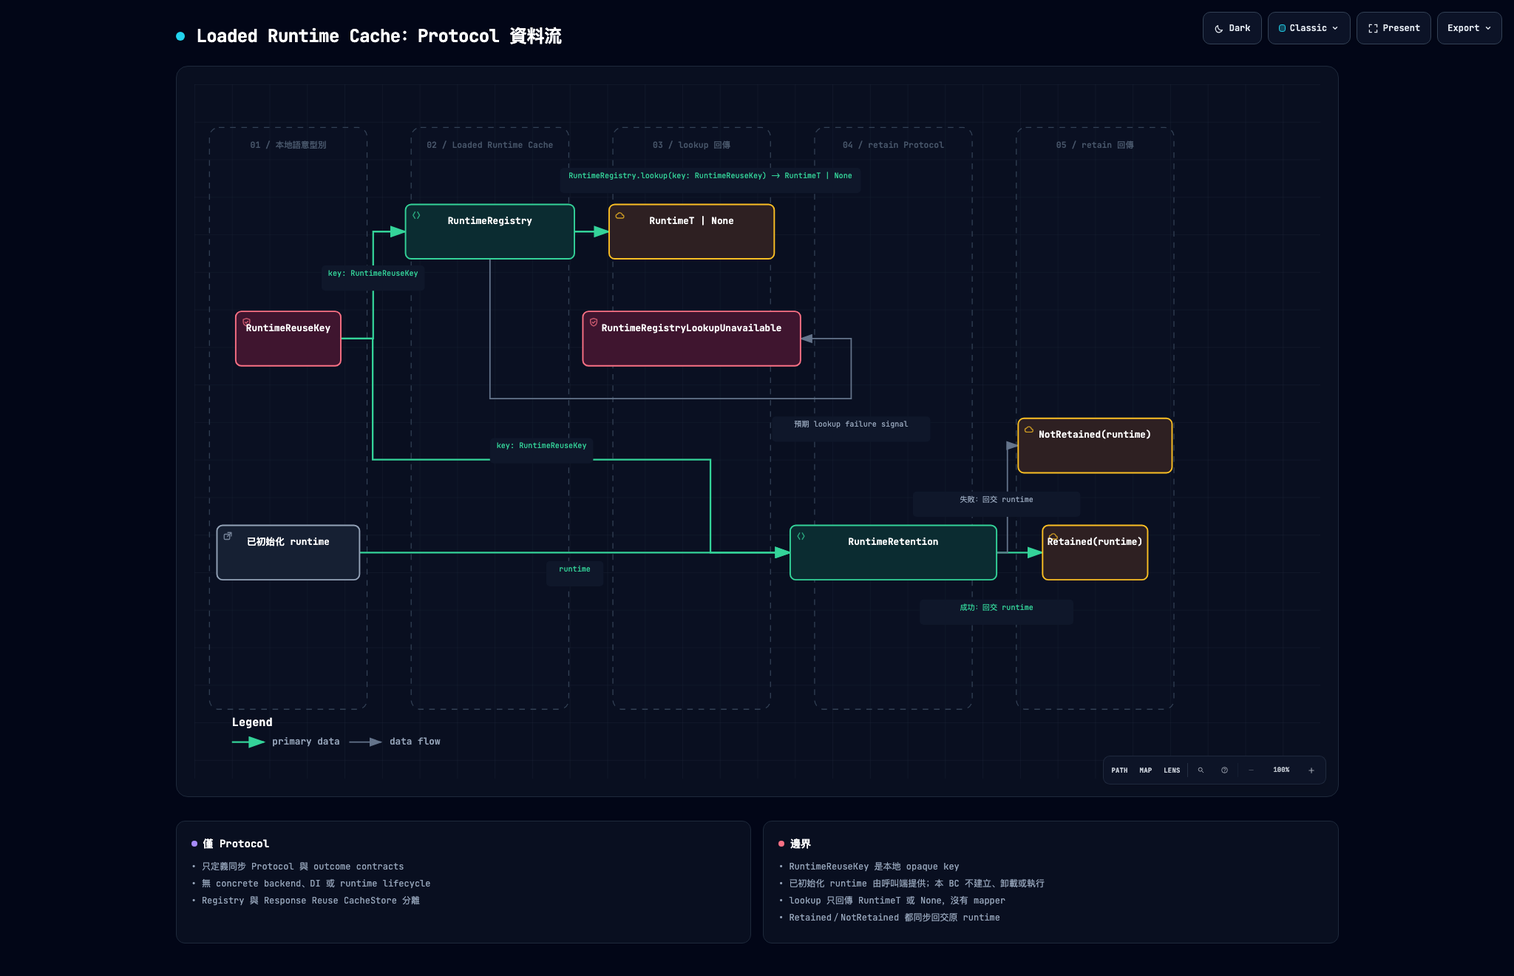
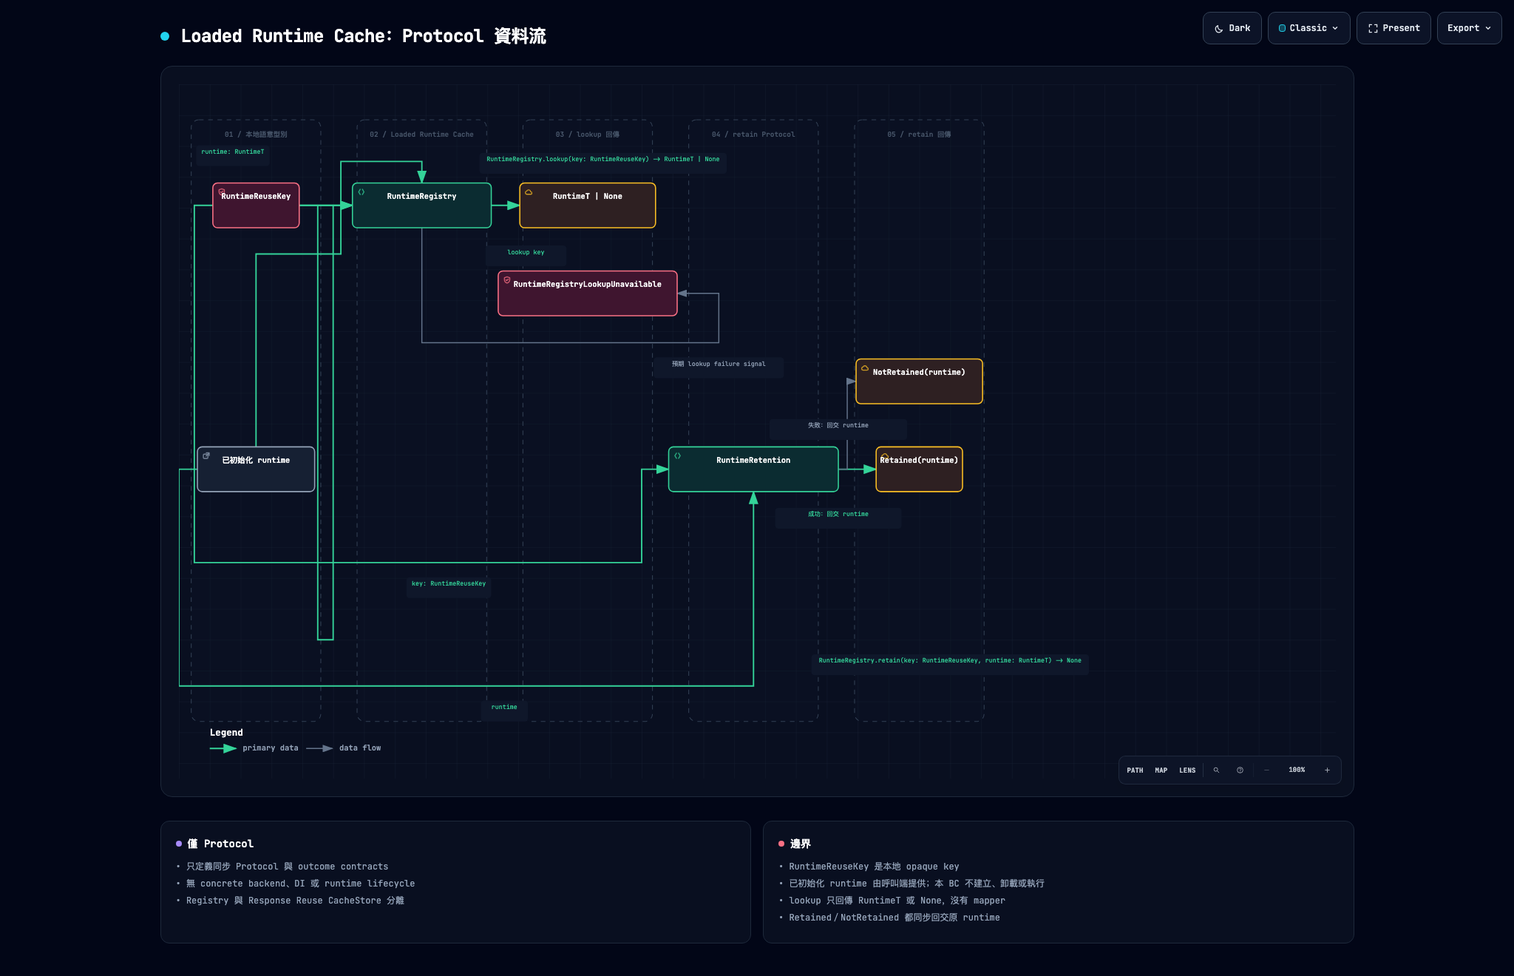
fix(loaded-runtime-cache): close C28 protocol regressions

diff --git a/docs/architecture/loaded-runtime-cache/loaded-runtime-cache.dataflow.html b/docs/architecture/loaded-runtime-cache/loaded-runtime-cache.dataflow.html
@@ -4997,7 +4997,7 @@
     <!-- Main Diagram -->
     <div class="diagram-container" data-detail-level="read"
          data-preset-badge-editorial-plate="ARCHIFY / PLATE 04">
-      <svg viewBox="0 0 1200 740" role="img" lang="en" aria-labelledby="archify-diagram-title archify-diagram-description" data-preset="classic" data-quality-profile="showcase">
+      <svg viewBox="0 0 1500 900" role="img" lang="en" aria-labelledby="archify-diagram-title archify-diagram-description" data-preset="classic" data-quality-profile="showcase">
         <title id="archify-diagram-title">Loaded Runtime Cache：Protocol 資料流</title>
         <desc id="archify-diagram-description">A data-flow diagram generated by Archify.</desc>
         <!-- Definitions -->
@@ -5023,41 +5023,43 @@
         <rect width="100%" height="100%" fill="url(#grid)" />
 
         <!-- Data Stages -->
-        <rect data-graph-role="structural-frame" data-composition-frame-kind="stage" data-composition-frame-id="0" x="16" y="46" width="168" height="620" rx="10" class="c-lane" stroke-width="1"/>
+        <rect data-graph-role="structural-frame" data-composition-frame-kind="stage" data-composition-frame-id="0" x="16" y="46" width="168" height="780" rx="10" class="c-lane" stroke-width="1"/>
         <text x="100" y="68" class="t-dim" font-size="9" font-weight="600" text-anchor="middle">01 / 本地語意型別</text>
 
-        <rect data-graph-role="structural-frame" data-composition-frame-kind="stage" data-composition-frame-id="1" x="231" y="46" width="168" height="620" rx="10" class="c-lane" stroke-width="1"/>
+        <rect data-graph-role="structural-frame" data-composition-frame-kind="stage" data-composition-frame-id="1" x="231" y="46" width="168" height="780" rx="10" class="c-lane" stroke-width="1"/>
         <text x="315" y="68" class="t-dim" font-size="9" font-weight="600" text-anchor="middle">02 / Loaded Runtime Cache</text>
 
-        <rect data-graph-role="structural-frame" data-composition-frame-kind="stage" data-composition-frame-id="2" x="446" y="46" width="168" height="620" rx="10" class="c-lane" stroke-width="1"/>
+        <rect data-graph-role="structural-frame" data-composition-frame-kind="stage" data-composition-frame-id="2" x="446" y="46" width="168" height="780" rx="10" class="c-lane" stroke-width="1"/>
         <text x="530" y="68" class="t-dim" font-size="9" font-weight="600" text-anchor="middle">03 / lookup 回傳</text>
 
-        <rect data-graph-role="structural-frame" data-composition-frame-kind="stage" data-composition-frame-id="3" x="661" y="46" width="168" height="620" rx="10" class="c-lane" stroke-width="1"/>
+        <rect data-graph-role="structural-frame" data-composition-frame-kind="stage" data-composition-frame-id="3" x="661" y="46" width="168" height="780" rx="10" class="c-lane" stroke-width="1"/>
         <text x="745" y="68" class="t-dim" font-size="9" font-weight="600" text-anchor="middle">04 / retain Protocol</text>
 
-        <rect data-graph-role="structural-frame" data-composition-frame-kind="stage" data-composition-frame-id="4" x="876" y="46" width="168" height="620" rx="10" class="c-lane" stroke-width="1"/>
+        <rect data-graph-role="structural-frame" data-composition-frame-kind="stage" data-composition-frame-id="4" x="876" y="46" width="168" height="780" rx="10" class="c-lane" stroke-width="1"/>
         <text x="960" y="68" class="t-dim" font-size="9" font-weight="600" text-anchor="middle">05 / retain 回傳</text>
 
         <!-- Flow paths -->
-        <path data-edge-from="reuse-key" data-edge-to="runtime-registry" data-edge-label="key: RuntimeReuseKey" data-edge-key="0" data-edge-id="key-to-registry" data-composition-points="156,271;190.5,271;190.5,157;225,157" d="M 156 271 L 190.5 271 L 190.5 157 L 225 157" class="a-emphasis" stroke-width="1.8" marker-end="url(#arrowhead-emphasis)"/>
-        <path data-edge-from="reuse-key" data-edge-to="runtime-retention" data-edge-label="key: RuntimeReuseKey" data-edge-key="1" data-edge-id="key-to-retention" data-composition-points="156,271;190,271;190,400;550,400;550,499;635,499" d="M 156 271 L 190 271 L 190 400 L 550 400 L 550 499 L 635 499" class="a-emphasis" stroke-width="1.8" marker-end="url(#arrowhead-emphasis)"/>
-        <path data-edge-from="initialized-runtime" data-edge-to="runtime-retention" data-edge-label="runtime" data-edge-key="2" data-edge-id="runtime-to-retention" data-composition-points="176,499;635,499" d="M 176 499 L 635 499" class="a-emphasis" stroke-width="1.8" marker-end="url(#arrowhead-emphasis)"/>
-        <path data-edge-from="runtime-registry" data-edge-to="lookup-return" data-edge-label="RuntimeRegistry.lookup(key: RuntimeReuseKey) -&gt; RuntimeT | None" data-edge-key="3" data-edge-id="lookup-return" data-composition-points="405,157;442,157" d="M 405 157 L 442 157" class="a-emphasis" stroke-width="1.8" marker-end="url(#arrowhead-emphasis)"/>
-        <path data-edge-from="runtime-registry" data-edge-to="lookup-unavailable" data-edge-label="預期 lookup failure signal" data-edge-key="4" data-edge-id="lookup-unavailable" data-composition-points="315,186;315,335;700,335;700,271;646,271" d="M 315 186 L 315 335 L 700 335 L 700 271 L 646 271" class="a-default" stroke-width="1.4" marker-end="url(#arrowhead)"/>
-        <path data-edge-from="runtime-retention" data-edge-to="retained" data-edge-label="成功：回交 runtime" data-edge-key="5" data-edge-id="retain-success" data-composition-points="855,499;904,499" d="M 855 499 L 904 499" class="a-emphasis" stroke-width="1.8" marker-end="url(#arrowhead-emphasis)"/>
-        <path data-edge-from="runtime-retention" data-edge-to="not-retained" data-edge-label="失敗：回交 runtime" data-edge-key="6" data-edge-id="retain-failure" data-composition-points="855,499;866.5,499;866.5,385;878,385" d="M 855 499 L 866.5 499 L 866.5 385 L 878 385" class="a-default" stroke-width="1.4" marker-end="url(#arrowhead)"/>
+        <path data-edge-from="reuse-key" data-edge-to="runtime-registry" data-edge-label="lookup key" data-edge-key="0" data-edge-id="key-to-registry" data-composition-points="156,157;225,157" d="M 156 157 L 225 157" class="a-emphasis" stroke-width="1.8" marker-end="url(#arrowhead-emphasis)"/>
+        <path data-edge-from="reuse-key" data-edge-to="runtime-registry" data-edge-label="RuntimeRegistry.retain(key: RuntimeReuseKey, runtime: RuntimeT) -&gt; None" data-edge-key="1" data-edge-id="key-to-registry-retain" data-composition-points="156,157;200,157;200,720;180,720;180,157;225,157" d="M 156 157 L 200 157 L 200 720 L 180 720 L 180 157 L 225 157" class="a-emphasis" stroke-width="1.8" marker-end="url(#arrowhead-emphasis)"/>
+        <path data-edge-from="initialized-runtime" data-edge-to="runtime-registry" data-edge-label="runtime: RuntimeT" data-edge-key="2" data-edge-id="runtime-to-registry-retain" data-composition-points="100,470;100,220;210,220;210,100;315,100;315,128" d="M 100 470 L 100 220 L 210 220 L 210 100 L 315 100 L 315 128" class="a-emphasis" stroke-width="1.8" marker-end="url(#arrowhead-emphasis)"/>
+        <path data-edge-from="reuse-key" data-edge-to="runtime-retention" data-edge-label="key: RuntimeReuseKey" data-edge-key="3" data-edge-id="key-to-retention" data-composition-points="44,157;20,157;20,620;600,620;600,499;635,499" d="M 44 157 L 20 157 L 20 620 L 600 620 L 600 499 L 635 499" class="a-emphasis" stroke-width="1.8" marker-end="url(#arrowhead-emphasis)"/>
+        <path data-edge-from="initialized-runtime" data-edge-to="runtime-retention" data-edge-label="runtime" data-edge-key="4" data-edge-id="runtime-to-retention" data-composition-points="24,499;0,499;0,780;745,780;745,528" d="M 24 499 L 0 499 L 0 780 L 745 780 L 745 528" class="a-emphasis" stroke-width="1.8" marker-end="url(#arrowhead-emphasis)"/>
+        <path data-edge-from="runtime-registry" data-edge-to="lookup-return" data-edge-label="RuntimeRegistry.lookup(key: RuntimeReuseKey) -&gt; RuntimeT | None" data-edge-key="5" data-edge-id="lookup-return" data-composition-points="405,157;442,157" d="M 405 157 L 442 157" class="a-emphasis" stroke-width="1.8" marker-end="url(#arrowhead-emphasis)"/>
+        <path data-edge-from="runtime-registry" data-edge-to="lookup-unavailable" data-edge-label="預期 lookup failure signal" data-edge-key="6" data-edge-id="lookup-unavailable" data-composition-points="315,186;315,335;700,335;700,271;646,271" d="M 315 186 L 315 335 L 700 335 L 700 271 L 646 271" class="a-default" stroke-width="1.4" marker-end="url(#arrowhead)"/>
+        <path data-edge-from="runtime-retention" data-edge-to="retained" data-edge-label="成功：回交 runtime" data-edge-key="7" data-edge-id="retain-success" data-composition-points="855,499;904,499" d="M 855 499 L 904 499" class="a-emphasis" stroke-width="1.8" marker-end="url(#arrowhead-emphasis)"/>
+        <path data-edge-from="runtime-retention" data-edge-to="not-retained" data-edge-label="失敗：回交 runtime" data-edge-key="8" data-edge-id="retain-failure" data-composition-points="855,499;866.5,499;866.5,385;878,385" d="M 855 499 L 866.5 499 L 866.5 385 L 878 385" class="a-default" stroke-width="1.4" marker-end="url(#arrowhead)"/>
 
         <!-- Nodes -->
         <g id="node-reuse-key" data-node-id="reuse-key" data-node-label="RuntimeReuseKey" tabindex="0" role="button" aria-label="Focus RuntimeReuseKey, 01 / 本地語意型別" aria-pressed="false" data-node-kind="security" data-node-tag="本地 opaque key" data-node-context="01 / 本地語意型別">
           <title>RuntimeReuseKey · 01 / 本地語意型別 · 本地 opaque key</title>
-          <rect x="44" y="242" width="112" height="58" rx="6" class="c-mask"/>
-          <rect x="44" y="242" width="112" height="58" rx="6" class="c-security" stroke-width="1.5"/>
-          <g aria-hidden="true" data-semantic-sigil="security" class="semantic-sigil s-security" transform="translate(50 248) scale(0.6875)">
+          <rect x="44" y="128" width="112" height="58" rx="6" class="c-mask"/>
+          <rect x="44" y="128" width="112" height="58" rx="6" class="c-security" stroke-width="1.5"/>
+          <g aria-hidden="true" data-semantic-sigil="security" class="semantic-sigil s-security" transform="translate(50 134) scale(0.6875)">
             <path d="M8 2.2 13 4v3.5c0 3.1-1.8 5.4-5 6.5-3.2-1.1-5-3.4-5-6.5V4Z"/>
             <path d="m5.8 8 1.5 1.5 3-3"/>
           </g>
-          <text data-node-label="" x="100" y="263" class="t-primary" font-size="10" font-weight="600" text-anchor="middle">RuntimeReuseKey</text>
-        <text data-detail="fine" x="100" y="289" class="t-security" font-size="7" text-anchor="middle">本地 opaque key</text>
+          <text data-node-label="" x="100" y="149" class="t-primary" font-size="10" font-weight="600" text-anchor="middle">RuntimeReuseKey</text>
+        <text data-detail="fine" x="100" y="175" class="t-security" font-size="7" text-anchor="middle">本地 opaque key</text>
         </g>
 
         <g id="node-initialized-runtime" data-node-id="initialized-runtime" data-node-label="已初始化 runtime" tabindex="0" role="button" aria-label="Focus 已初始化 runtime, 01 / 本地語意型別" aria-pressed="false" data-node-kind="external" data-node-tag="retain input" data-node-context="01 / 本地語意型別">
@@ -5139,37 +5141,47 @@
         </g>
 
         <!-- Flow labels -->
-        <g data-detail="context" data-edge-from="reuse-key" data-edge-to="runtime-registry" data-edge-label="key: RuntimeReuseKey" data-edge-key="0" data-edge-id="key-to-registry">
-          <rect x="135.5" y="193" width="110" height="27" rx="4" class="c-mask"/>
-          <text x="190.5" y="204" class="t-backend" font-size="8" text-anchor="middle">key: RuntimeReuseKey</text>
-        <text data-detail="fine" x="190.5" y="215" class="t-dim" font-size="7" text-anchor="middle">opaque pass-through</text>
+        <g data-detail="context" data-edge-from="reuse-key" data-edge-to="runtime-registry" data-edge-label="lookup key" data-edge-key="0" data-edge-id="key-to-registry">
+          <rect x="397.45" y="209" width="105.1" height="27" rx="4" class="c-mask"/>
+          <text x="450" y="220" class="t-backend" font-size="8" text-anchor="middle">lookup key</text>
+        <text data-detail="fine" x="450" y="231" class="t-dim" font-size="7" text-anchor="middle">opaque pass-through</text>
         </g>
-        <g data-detail="context" data-edge-from="reuse-key" data-edge-to="runtime-retention" data-edge-label="key: RuntimeReuseKey" data-edge-key="1" data-edge-id="key-to-retention">
-          <rect x="315" y="377" width="110" height="27" rx="4" class="c-mask"/>
-          <text x="370" y="388" class="t-backend" font-size="8" text-anchor="middle">key: RuntimeReuseKey</text>
-        <text data-detail="fine" x="370" y="399" class="t-dim" font-size="7" text-anchor="middle">opaque pass-through</text>
+        <g data-detail="context" data-edge-from="reuse-key" data-edge-to="runtime-registry" data-edge-label="RuntimeRegistry.retain(key: RuntimeReuseKey, runtime: RuntimeT) -&gt; None" data-edge-key="1" data-edge-id="key-to-registry-retain">
+          <rect x="820.05" y="739" width="359.9" height="27" rx="4" class="c-mask"/>
+          <text x="1000" y="750" class="t-backend" font-size="8" text-anchor="middle">RuntimeRegistry.retain(key: RuntimeReuseKey, runtime: RuntimeT) -&gt; None</text>
+        <text data-detail="fine" x="1000" y="761" class="t-dim" font-size="7" text-anchor="middle">同步 Protocol</text>
         </g>
-        <g data-detail="context" data-edge-from="initialized-runtime" data-edge-to="runtime-retention" data-edge-label="runtime" data-edge-key="2" data-edge-id="runtime-to-retention">
-          <rect x="375" y="508" width="61" height="27" rx="4" class="c-mask"/>
-          <text x="405.5" y="519" class="t-backend" font-size="8" text-anchor="middle">runtime</text>
-        <text data-detail="fine" x="405.5" y="530" class="t-dim" font-size="7" text-anchor="middle">呼叫端提供</text>
+        <g data-detail="context" data-edge-from="initialized-runtime" data-edge-to="runtime-registry" data-edge-label="runtime: RuntimeT" data-edge-key="2" data-edge-id="runtime-to-registry-retain">
+          <rect x="22.35" y="79" width="95.3" height="27" rx="4" class="c-mask"/>
+          <text x="70" y="90" class="t-backend" font-size="8" text-anchor="middle">runtime: RuntimeT</text>
+        <text data-detail="fine" x="70" y="101" class="t-dim" font-size="7" text-anchor="middle">呼叫端提供</text>
         </g>
-        <g data-detail="context" data-edge-from="runtime-registry" data-edge-to="lookup-return" data-edge-label="RuntimeRegistry.lookup(key: RuntimeReuseKey) -&gt; RuntimeT | None" data-edge-key="3" data-edge-id="lookup-return">
+        <g data-detail="context" data-edge-from="reuse-key" data-edge-to="runtime-retention" data-edge-label="key: RuntimeReuseKey" data-edge-key="3" data-edge-id="key-to-retention">
+          <rect x="295" y="639" width="110" height="27" rx="4" class="c-mask"/>
+          <text x="350" y="650" class="t-backend" font-size="8" text-anchor="middle">key: RuntimeReuseKey</text>
+        <text data-detail="fine" x="350" y="661" class="t-dim" font-size="7" text-anchor="middle">opaque pass-through</text>
+        </g>
+        <g data-detail="context" data-edge-from="initialized-runtime" data-edge-to="runtime-retention" data-edge-label="runtime" data-edge-key="4" data-edge-id="runtime-to-retention">
+          <rect x="391.5" y="799" width="61" height="27" rx="4" class="c-mask"/>
+          <text x="422" y="810" class="t-backend" font-size="8" text-anchor="middle">runtime</text>
+        <text data-detail="fine" x="422" y="821" class="t-dim" font-size="7" text-anchor="middle">呼叫端提供</text>
+        </g>
+        <g data-detail="context" data-edge-from="runtime-registry" data-edge-to="lookup-return" data-edge-label="RuntimeRegistry.lookup(key: RuntimeReuseKey) -&gt; RuntimeT | None" data-edge-key="5" data-edge-id="lookup-return">
           <rect x="389.65" y="89" width="320.7" height="27" rx="4" class="c-mask"/>
           <text x="550" y="100" class="t-backend" font-size="8" text-anchor="middle">RuntimeRegistry.lookup(key: RuntimeReuseKey) -&gt; RuntimeT | None</text>
         <text data-detail="fine" x="550" y="111" class="t-dim" font-size="7" text-anchor="middle">同步 Protocol</text>
         </g>
-        <g data-detail="context" data-edge-from="runtime-registry" data-edge-to="lookup-unavailable" data-edge-label="預期 lookup failure signal" data-edge-key="4" data-edge-id="lookup-unavailable">
+        <g data-detail="context" data-edge-from="runtime-registry" data-edge-to="lookup-unavailable" data-edge-label="預期 lookup failure signal" data-edge-key="6" data-edge-id="lookup-unavailable">
           <rect x="615.6" y="354" width="168.8" height="27" rx="4" class="c-mask"/>
           <text x="700" y="365" class="t-muted" font-size="8" text-anchor="middle">預期 lookup failure signal</text>
         <text data-detail="fine" x="700" y="376" class="t-dim" font-size="7" text-anchor="middle">RuntimeRegistryLookupUnavailable</text>
         </g>
-        <g data-detail="context" data-edge-from="runtime-retention" data-edge-to="retained" data-edge-label="成功：回交 runtime" data-edge-key="5" data-edge-id="retain-success">
+        <g data-detail="context" data-edge-from="runtime-retention" data-edge-to="retained" data-edge-label="成功：回交 runtime" data-edge-key="7" data-edge-id="retain-success">
           <rect x="773.05" y="549" width="163.9" height="27" rx="4" class="c-mask"/>
           <text x="855" y="560" class="t-backend" font-size="8" text-anchor="middle">成功：回交 runtime</text>
         <text data-detail="fine" x="855" y="571" class="t-dim" font-size="7" text-anchor="middle">Retained(runtime)；同一 runtime</text>
         </g>
-        <g data-detail="context" data-edge-from="runtime-retention" data-edge-to="not-retained" data-edge-label="失敗：回交 runtime" data-edge-key="6" data-edge-id="retain-failure">
+        <g data-detail="context" data-edge-from="runtime-retention" data-edge-to="not-retained" data-edge-label="失敗：回交 runtime" data-edge-key="8" data-edge-id="retain-failure">
           <rect x="765.7" y="434" width="178.6" height="27" rx="4" class="c-mask"/>
           <text x="855" y="445" class="t-muted" font-size="8" text-anchor="middle">失敗：回交 runtime</text>
         <text data-detail="fine" x="855" y="456" class="t-dim" font-size="7" text-anchor="middle">NotRetained(runtime)；同一 runtime</text>
@@ -5177,14 +5189,14 @@
 
         <!-- Legend -->
         <g data-legend="">
-          <text x="40" y="684" class="t-primary" font-size="12" font-weight="650">Legend</text>
-          <g data-legend-semantic-kind="emphasis" data-legend-x="40" data-legend-baseline="704" data-legend-width="103">
-            <path d="M 40 701 L 74 701" class="a-emphasis" stroke-width="1.8" marker-end="url(#arrowhead-emphasis)"/>
-            <text x="83" y="704" class="t-muted" font-size="10" font-weight="500">primary data</text>
+          <text x="40" y="844" class="t-primary" font-size="12" font-weight="650">Legend</text>
+          <g data-legend-semantic-kind="emphasis" data-legend-x="40" data-legend-baseline="864" data-legend-width="103">
+            <path d="M 40 861 L 74 861" class="a-emphasis" stroke-width="1.8" marker-end="url(#arrowhead-emphasis)"/>
+            <text x="83" y="864" class="t-muted" font-size="10" font-weight="500">primary data</text>
           </g>
-          <g data-legend-semantic-kind="default" data-legend-x="165" data-legend-baseline="704" data-legend-width="88">
-            <path d="M 165 701 L 199 701" class="a-default" stroke-width="1.4" marker-end="url(#arrowhead)"/>
-            <text x="208" y="704" class="t-muted" font-size="10" font-weight="500">data flow</text>
+          <g data-legend-semantic-kind="default" data-legend-x="165" data-legend-baseline="864" data-legend-width="88">
+            <path d="M 165 861 L 199 861" class="a-default" stroke-width="1.4" marker-end="url(#arrowhead)"/>
+            <text x="208" y="864" class="t-muted" font-size="10" font-weight="500">data flow</text>
           </g>
         </g>
       </svg>

diff --git a/tests/test_loaded_runtime_cache_bc_independence.py b/tests/test_loaded_runtime_cache_bc_independence.py
@@ -97,6 +97,9 @@ def _aliases_from_imports(tree: ast.AST) -> tuple[dict[str, str], dict[str, str]
             for alias in statement.names:
                 if alias.name in {"builtins", "importlib", "sys"}:
                     modules[alias.asname or alias.name] = alias.name
+                elif alias.name.startswith("importlib.") and alias.asname is None:
+                    # ``import importlib.util`` binds ``importlib`` at module scope.
+                    modules["importlib"] = "importlib"
         elif isinstance(statement, ast.ImportFrom) and statement.module in {
             "builtins",
             "importlib",
@@ -160,6 +163,12 @@ def _resolve_forbidden_alias(
         return _resolve_name_alias(value.id, modules, callables)
     if isinstance(value, ast.Attribute):
         return _resolve_attribute_alias(value, modules)
+    if isinstance(value, ast.IfExp):
+        return _resolve_forbidden_alias(value.body, modules, callables) or _resolve_forbidden_alias(
+            value.orelse,
+            modules,
+            callables,
+        )
     if isinstance(value, ast.Call):
         return _resolve_getattr_alias(value, modules)
     return None
@@ -227,6 +236,13 @@ def _qualified_module_attribute(value: ast.Attribute, modules: dict[str, str]) -
     if isinstance(value.value, ast.Name):
         module = modules.get(value.value.id)
         return f"{module}.{value.attr}" if module is not None else None
+    if isinstance(value.value, ast.NamedExpr):
+        named_expression = value.value
+        resolved = _resolve_forbidden_alias(named_expression.value, modules, {})
+        if type(named_expression.target) is ast.Name and resolved is not None:
+            kind, module = resolved
+            if kind == "module":
+                return f"{module}.{value.attr}"
     if not isinstance(value.value, ast.Attribute):
         return None
     parent = _qualified_module_attribute(value.value, modules)
@@ -250,12 +266,12 @@ def _is_forbidden_import_callable_expression(
     callables: dict[str, str],
 ) -> bool:
     """Return whether a callable expression can reach forbidden import machinery."""
-    if isinstance(expression, ast.IfExp):
-        return _is_forbidden_import_callable_expression(
-            expression.body,
-            modules,
-            callables,
-        ) or _is_forbidden_import_callable_expression(expression.orelse, modules, callables)
+    resolved = _resolve_forbidden_alias(expression, modules, callables)
+    if resolved in {
+        ("callable", "builtins.__import__"),
+        ("callable", "importlib.import_module"),
+    }:
+        return True
     if isinstance(expression, ast.NamedExpr):
         resolved = _resolve_forbidden_alias(expression.value, modules, callables)
         return resolved in {
@@ -290,6 +306,13 @@ def _is_module_cache_access(
     callables: dict[str, str],
 ) -> bool:
     """Return whether an expression reaches ``sys.modules``, including aliases."""
+    resolved = (
+        _resolve_forbidden_alias(statement, modules, callables)
+        if isinstance(statement, ast.expr)
+        else None
+    )
+    if resolved is not None and resolved[1] == "sys.modules":
+        return True
     if isinstance(statement, ast.Name):
         target = callables.get(statement.id)
         return target == "sys.modules" or (target is not None and target.startswith("sys.modules."))

diff --git a/src/deterministic_response_cache/loaded_runtime_cache/runtime_reuse/registry/runtime_reuse_key.py b/src/deterministic_response_cache/loaded_runtime_cache/runtime_reuse/registry/runtime_reuse_key.py
@@ -3,19 +3,23 @@
 
 """Opaque local key contract for reusable runtime lookup."""
 
-from dataclasses import dataclass
+from dataclasses import FrozenInstanceError
 
 
-@dataclass(frozen=True, slots=True, eq=False, repr=False, init=False)
 class RuntimeReuseKey:
     """An immutable local locator with instance-identity semantics only."""
 
-    _token: object
+    __slots__ = ()
 
     def __init__(self, token: object) -> None:
-        """Store an externally decided construction token without interpreting it."""
-        object.__setattr__(self, "_token", token)
+        """Accept an externally decided token without retaining or interpreting it."""
+        del token
 
     def __repr__(self) -> str:
         """Avoid exposing the externally supplied construction token."""
         return "RuntimeReuseKey()"
+
+    def __setattr__(self, name: str, value: object) -> None:
+        """Prevent later state from being added to an opaque identity-only key."""
+        del name, value
+        raise FrozenInstanceError
